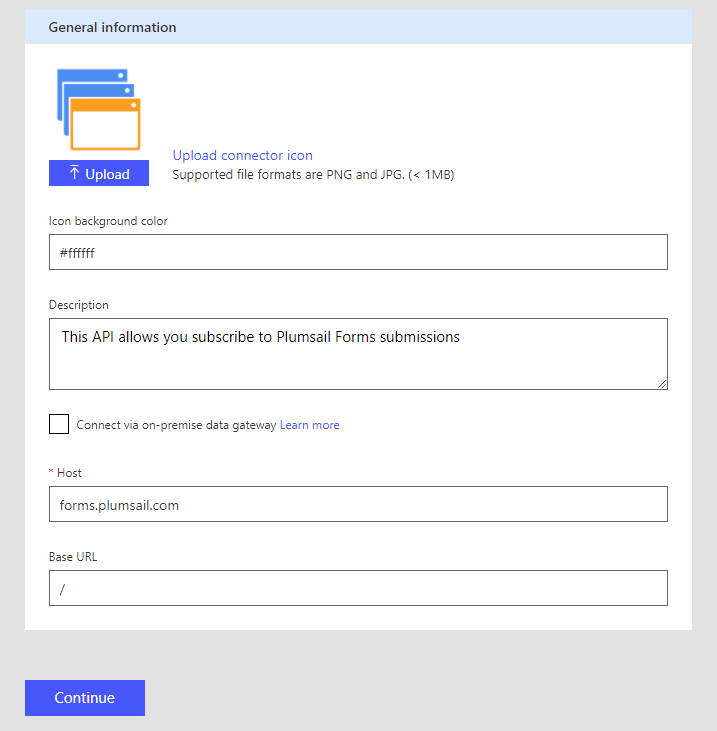
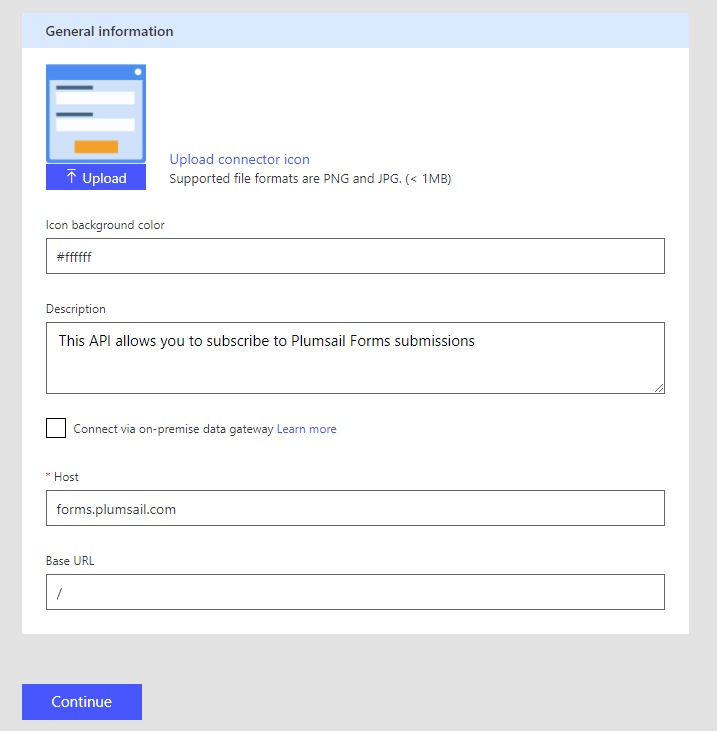
Added List item How-to + minor changes

Changed region(s): [[0.0307, 0.0, 0.9819, 0.8728], [0.0307, 0.933, 0.2148, 0.9932]]

diff --git a/source/how-to/item.rst b/source/how-to/item.rst
@@ -1,0 +1,164 @@
+Create an item in SharePoint List
+==================================================
+
+Description
+--------------------------------------------------
+One of the simplest and very practical use cases for Plumsail Forms might be adding items to SharePoint Lists.
+You are not tied to SharePoint forms, items can be added from the Flow.
+
+In this example, we will design a form for customers to subscribe to some form of updates from your company
+and use Flow to add this information to a list on your SharePoint site.
+
+Preparation
+--------------------------------------------------
+First step is to design a list, if you don't have one. It's best to start from the list, 
+so you know what fields you will need on your form rather than another way around.
+
+I will design simple list with three extra Single line plain text columns:
+
+.. image:: ../images/how-to/email/0_CreateList.png
+   :alt: Create List
+
+|
+
+Next, after designing the list, create Plumsail form in Forms Designer. 
+You can also design Modern SharePoint form if you want to create items in the different list when you submit this one, 
+but you'll need to Submit Data to Flow in General Settings.
+
+I've designed this simple form:
+
+.. image:: ../images/how-to/email/1_DesignForm.png
+   :alt: Design Form
+
+|
+
+Now, after the form is saved, it is time to configure Flow.
+
+Configure the Flow
+--------------------------------------------------
+
+First, open Microsoft Flow page and go to My Flows:
+
+.. image:: ../images/how-to/email/2_MyFlows.png
+   :alt: My Flows
+
+|
+
+On My Flows page, click *Create from blank* to create new Flow:
+
+.. image:: ../images/how-to/email/3_CreateFromBlank.png
+   :alt: Create from blank
+
+|
+
+We'll need to find the correct trigger for Forms Submission. Click *Search*:
+
+.. image:: ../images/how-to/email/4_Search.png
+   :alt: Search
+
+|
+
+Search for *Plumsail* and you'll find the right one - *Plumsail Forms - Form is submitted*. Add it:
+
+.. image:: ../images/how-to/email/5_AddPlumsailTrigger.png
+   :alt: Add Plumsail trigger
+
+|
+
+Next, you need to fill in Form ID. It can be found in **General Settings** in the designer. Click *Add an action* when you fill in the ID:
+
+.. image:: ../images/how-to/email/7_AddID.png
+   :alt: Add ID from General Settings
+
+|
+
+We need to somehow parse JSON received from form submission to use it in email. 
+Search for *JSON* and you'll find the action that you need - *Data Operations - Parse JSON*. Add it:
+
+.. image:: ../images/how-to/email/8_JSON.png
+   :alt: Parse JSON
+
+|
+
+Here, you'll need to click on *Content* field and select Body from menu on the right. Next, go to **General settings** in the designer and copy form's schema.
+Don't forget to save the form first, if you've added some changes, that will update the schema. Copy the schema and click *Add an action*:
+
+.. image:: ../images/how-to/email/9_ContentAndSchema.png
+   :alt: Add Content and Schema from General Settings
+
+|
+
+We'll use Microsoft's *SharePoint - Create item* action to create an item in a list. Select it:
+
+.. image:: ../images/how-to/file/2_SharePointCreateItem.png
+   :alt: SharePoint - Create item
+
+|
+
+You will need to add your site address. If it's your first time configuring SharePoint action, 
+select *Enter custom value* in dropdown menu and type in or copy and paste your site address, something like *https://mydomain.sharepoint.com/sites/mysite*
+
+You will also need to select List in List Name field:
+
+.. image:: ../images/how-to/file/3_SiteAddressEnterCustomValue.png
+   :alt: Site Address and List Name
+
+|
+
+Now you will see a menu with all columns that can be filled with Flow. 
+Some columns are an exception and cannot be filled using this action, for example, Choice column. We advice to use columns that can be filled.
+
+In our case, we have Title and three more Single line text columns, these can be easily filled. Select information from the form in menu on the right.
+
+You might have noticed that I used Checkboxes on my form and they produce an array of strings as an output.
+If I were to simply add this value to any of the fields, it would result in multiple actions performed for each value in the array. 
+
+It's not a bad option and might be useful in some situations, but if you have lots of Checkboxes on your form, it can quickly get out of hand.
+
+Here, I will use Expression of Workflow Definition Language to combine every value from the array into single string.
+In menu on the right, instead of clicking on the field, click Expression and type in **join()**:
+
+.. image:: ../images/how-to/file/4_Expression.png
+   :alt: Site Address and List Name
+
+|
+
+Now go back to Dynamic content tab, place the *caret* (a.k.a. the *cursor*) between the round brackets and click on field you want to join as a string.
+
+You can also add a delimiter between each string, I've added **', '** as a delimiter.
+
+Here is the result:
+
+.. image:: ../images/how-to/file/5_Join.png
+   :alt: Join Expression
+
+|
+
+Final result should look like this:
+
+.. image:: ../images/how-to/file/6_Final.png
+   :alt: Final
+
+|
+
+Now you can click *Save Flow* and **Done**.
+
+Final Result
+--------------------------------------------------
+Make sure that the Flow is active and open Form preview. I've filled mine with example data and clicked *Submit*:
+
+.. image:: ../images/how-to/file/7_ExampleForm.png
+   :alt: Example Form
+
+|
+
+Once the Form is submitted and processed with Flow, which can take some time, depending on how complex your form is, I get this result:
+
+.. image:: ../images/how-to/file/8_Result.png
+   :alt: Result
+
+|
+
+This example is simple, but you've seen how an item can be added to the list and how to convert array of strings into one string.
+This can be used in combination with any other Flow, for example, you can also :doc:`send an email after form is submitted </how-to/email>` and item is created.
+

diff --git a/source/how-to/email.rst b/source/how-to/email.rst
@@ -1,4 +1,4 @@
-Send an email on form submission
+Send an email with Microsoft Flow
 ==================================================
 
 Description
@@ -7,7 +7,7 @@ Description
 One of the basic functionalities you can add to your form is to send an email once the form is submitted. 
 It can be used in variety of cases - to receive feedback from the clients, to get latest update from your employees and just to get some information in general.
 
-In this example, we will design the form for customers to report their problems and use Flow to send submitted information 
+In this example, we will design a form for customers to report their problems and use Flow to send submitted information 
 to our company's |location_link|.
 
 .. |location_link| raw:: html
@@ -24,7 +24,7 @@ Don't forget to include the Submit button, so the form can be actually submitted
 Here's the simple form designed to receive customers feedback on Forms Designer problems:
 
 .. image:: ../images/how-to/email/1_DesignForm.png
-   :alt: MultilineTextBox
+   :alt: Design Form
 
 |
 

diff --git a/source/microsoftFlow.rst b/source/microsoftFlow.rst
@@ -59,9 +59,13 @@ It should look like this:
 
 Next you can customize the look of the connector with the icon and background. 
 
-You can download our icon :download:`here </images/icons/FormsIcon.png>` and we recommend to use it with white background **#ffffff**
+You can download our icon |Icon| and we recommend to use it with white background **#ffffff**
 
 Nothing else need to be changed on this page:
+
+.. |Icon| raw:: html
+
+   <a href="https://forms.plumsail.com/images/connector.png" target="_blank">here</a>
 
 .. image:: /images/flow/4_AdjustIcon.png
    :alt: Adjust Icon

diff --git a/source/index.rst b/source/index.rst
@@ -35,6 +35,7 @@ Documentation
             :maxdepth: 1
 
             how-to/email
+            how-to/item
 
 .. container:: pl-right-column
 
